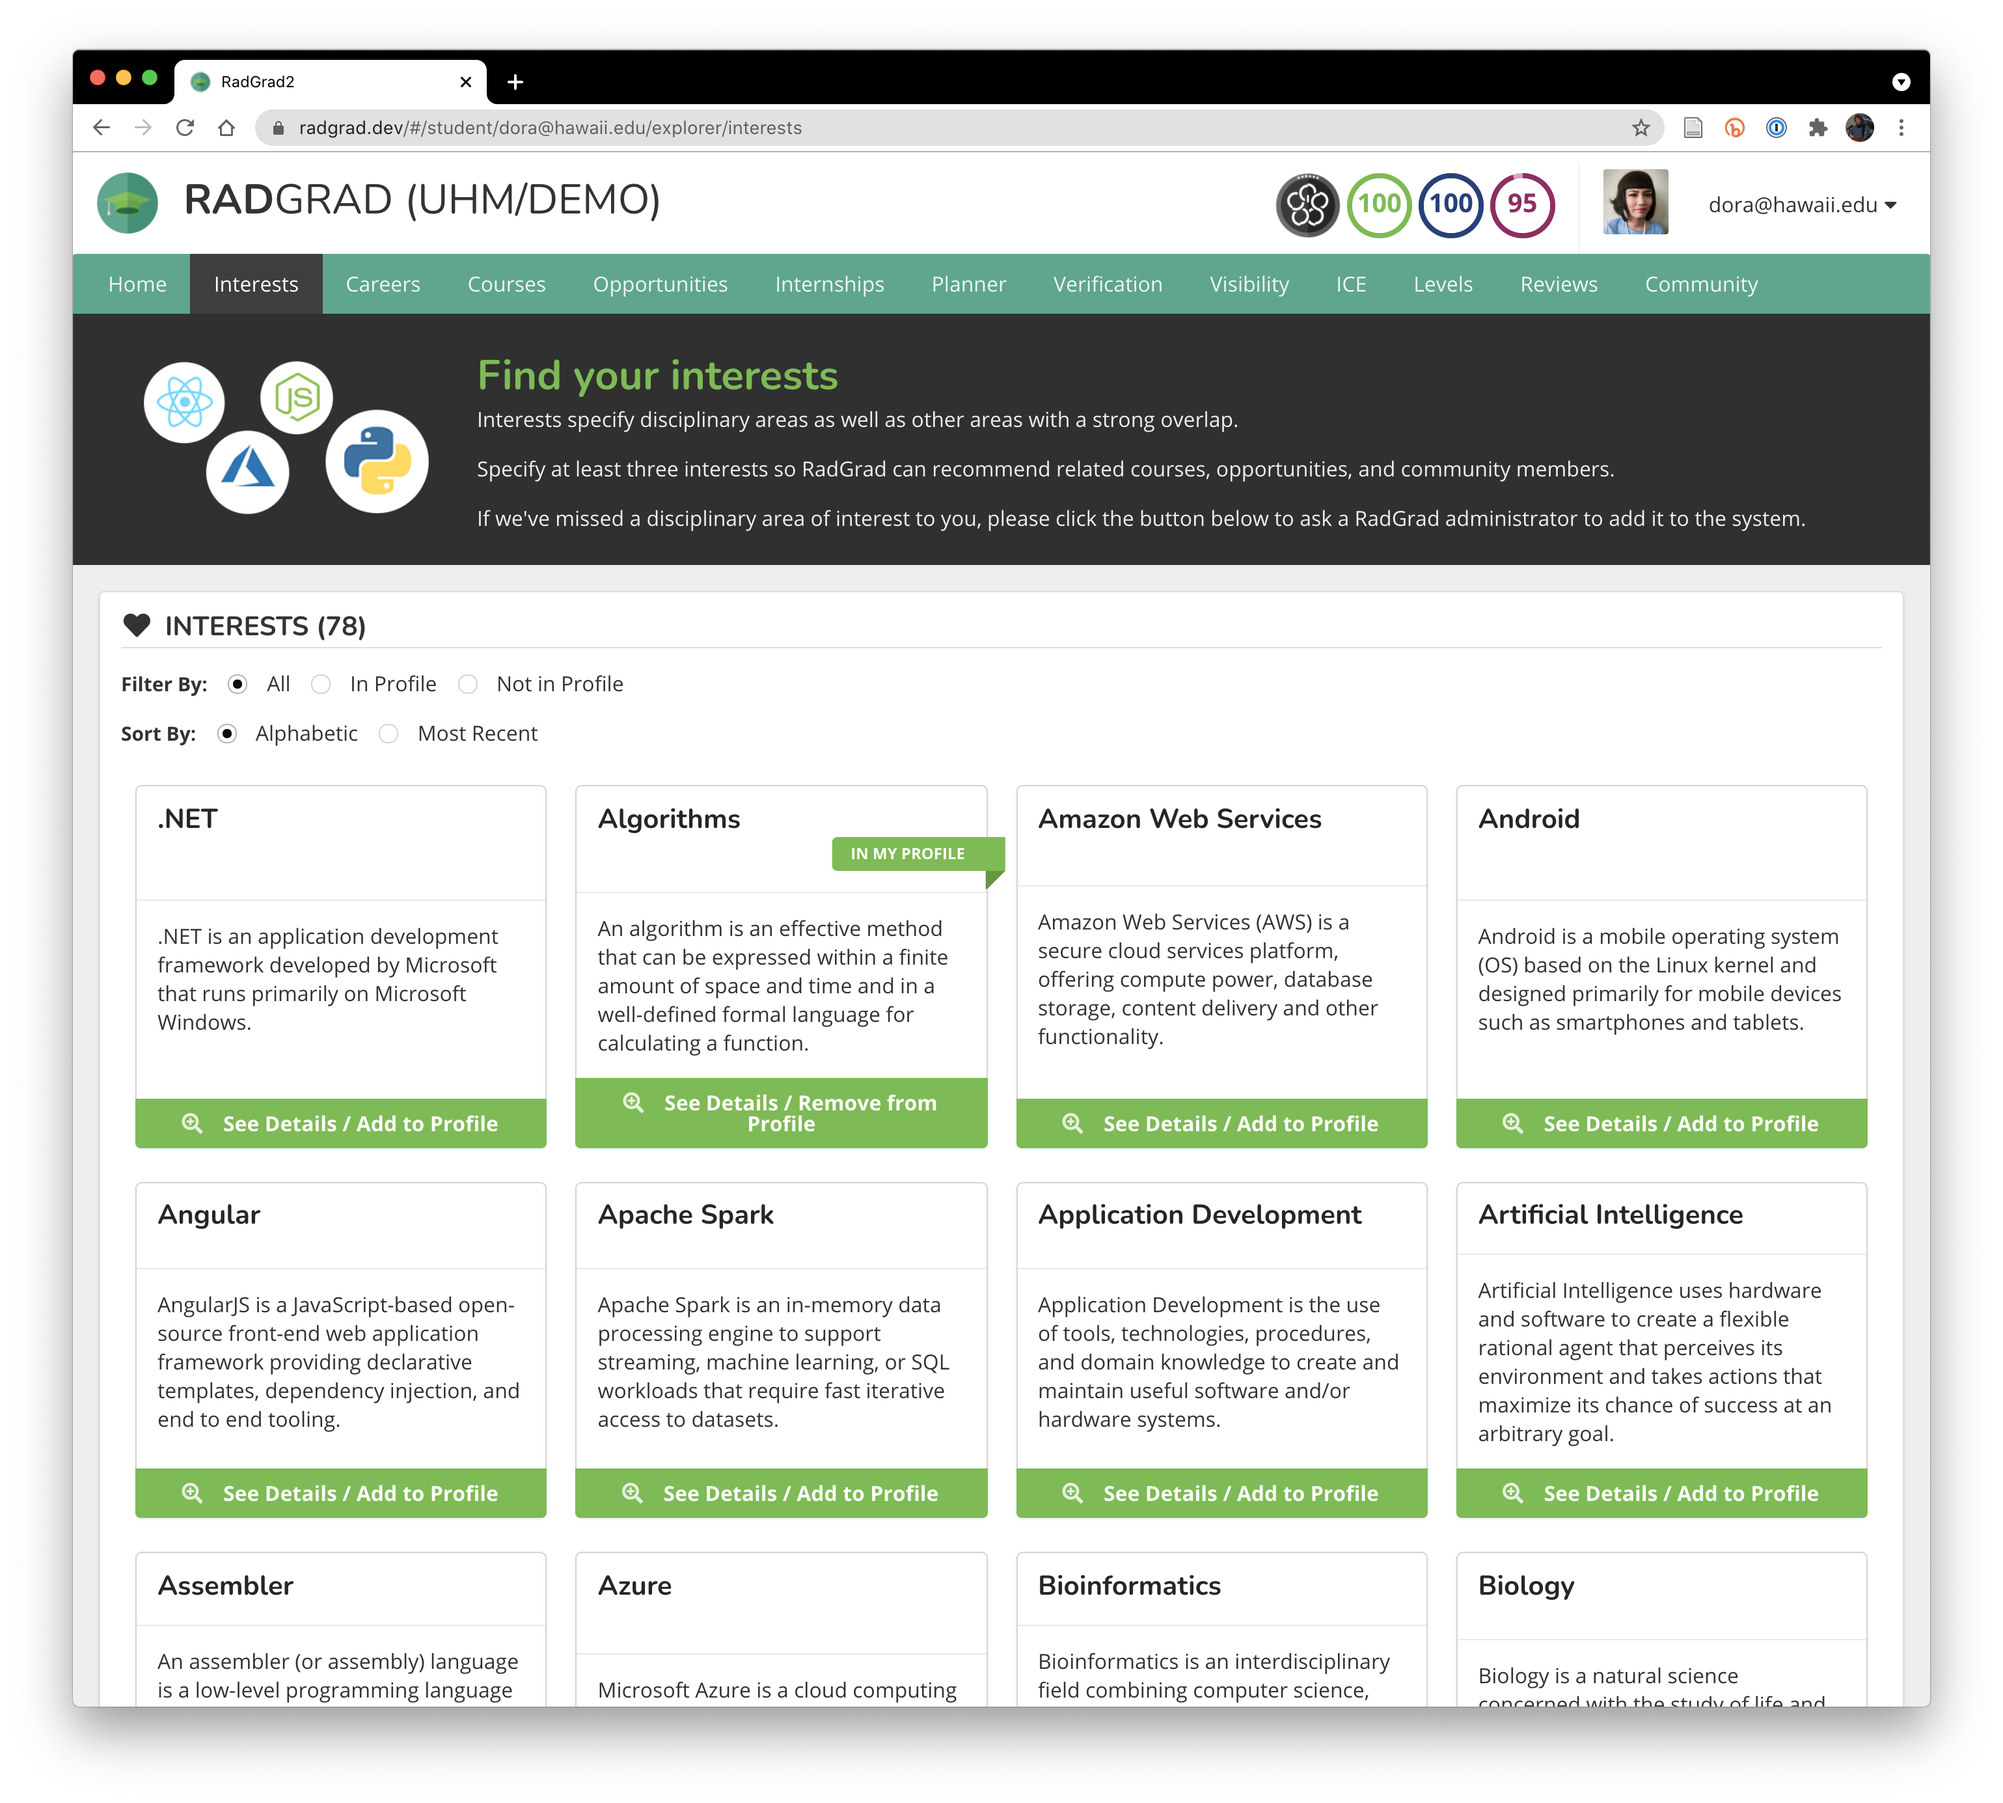
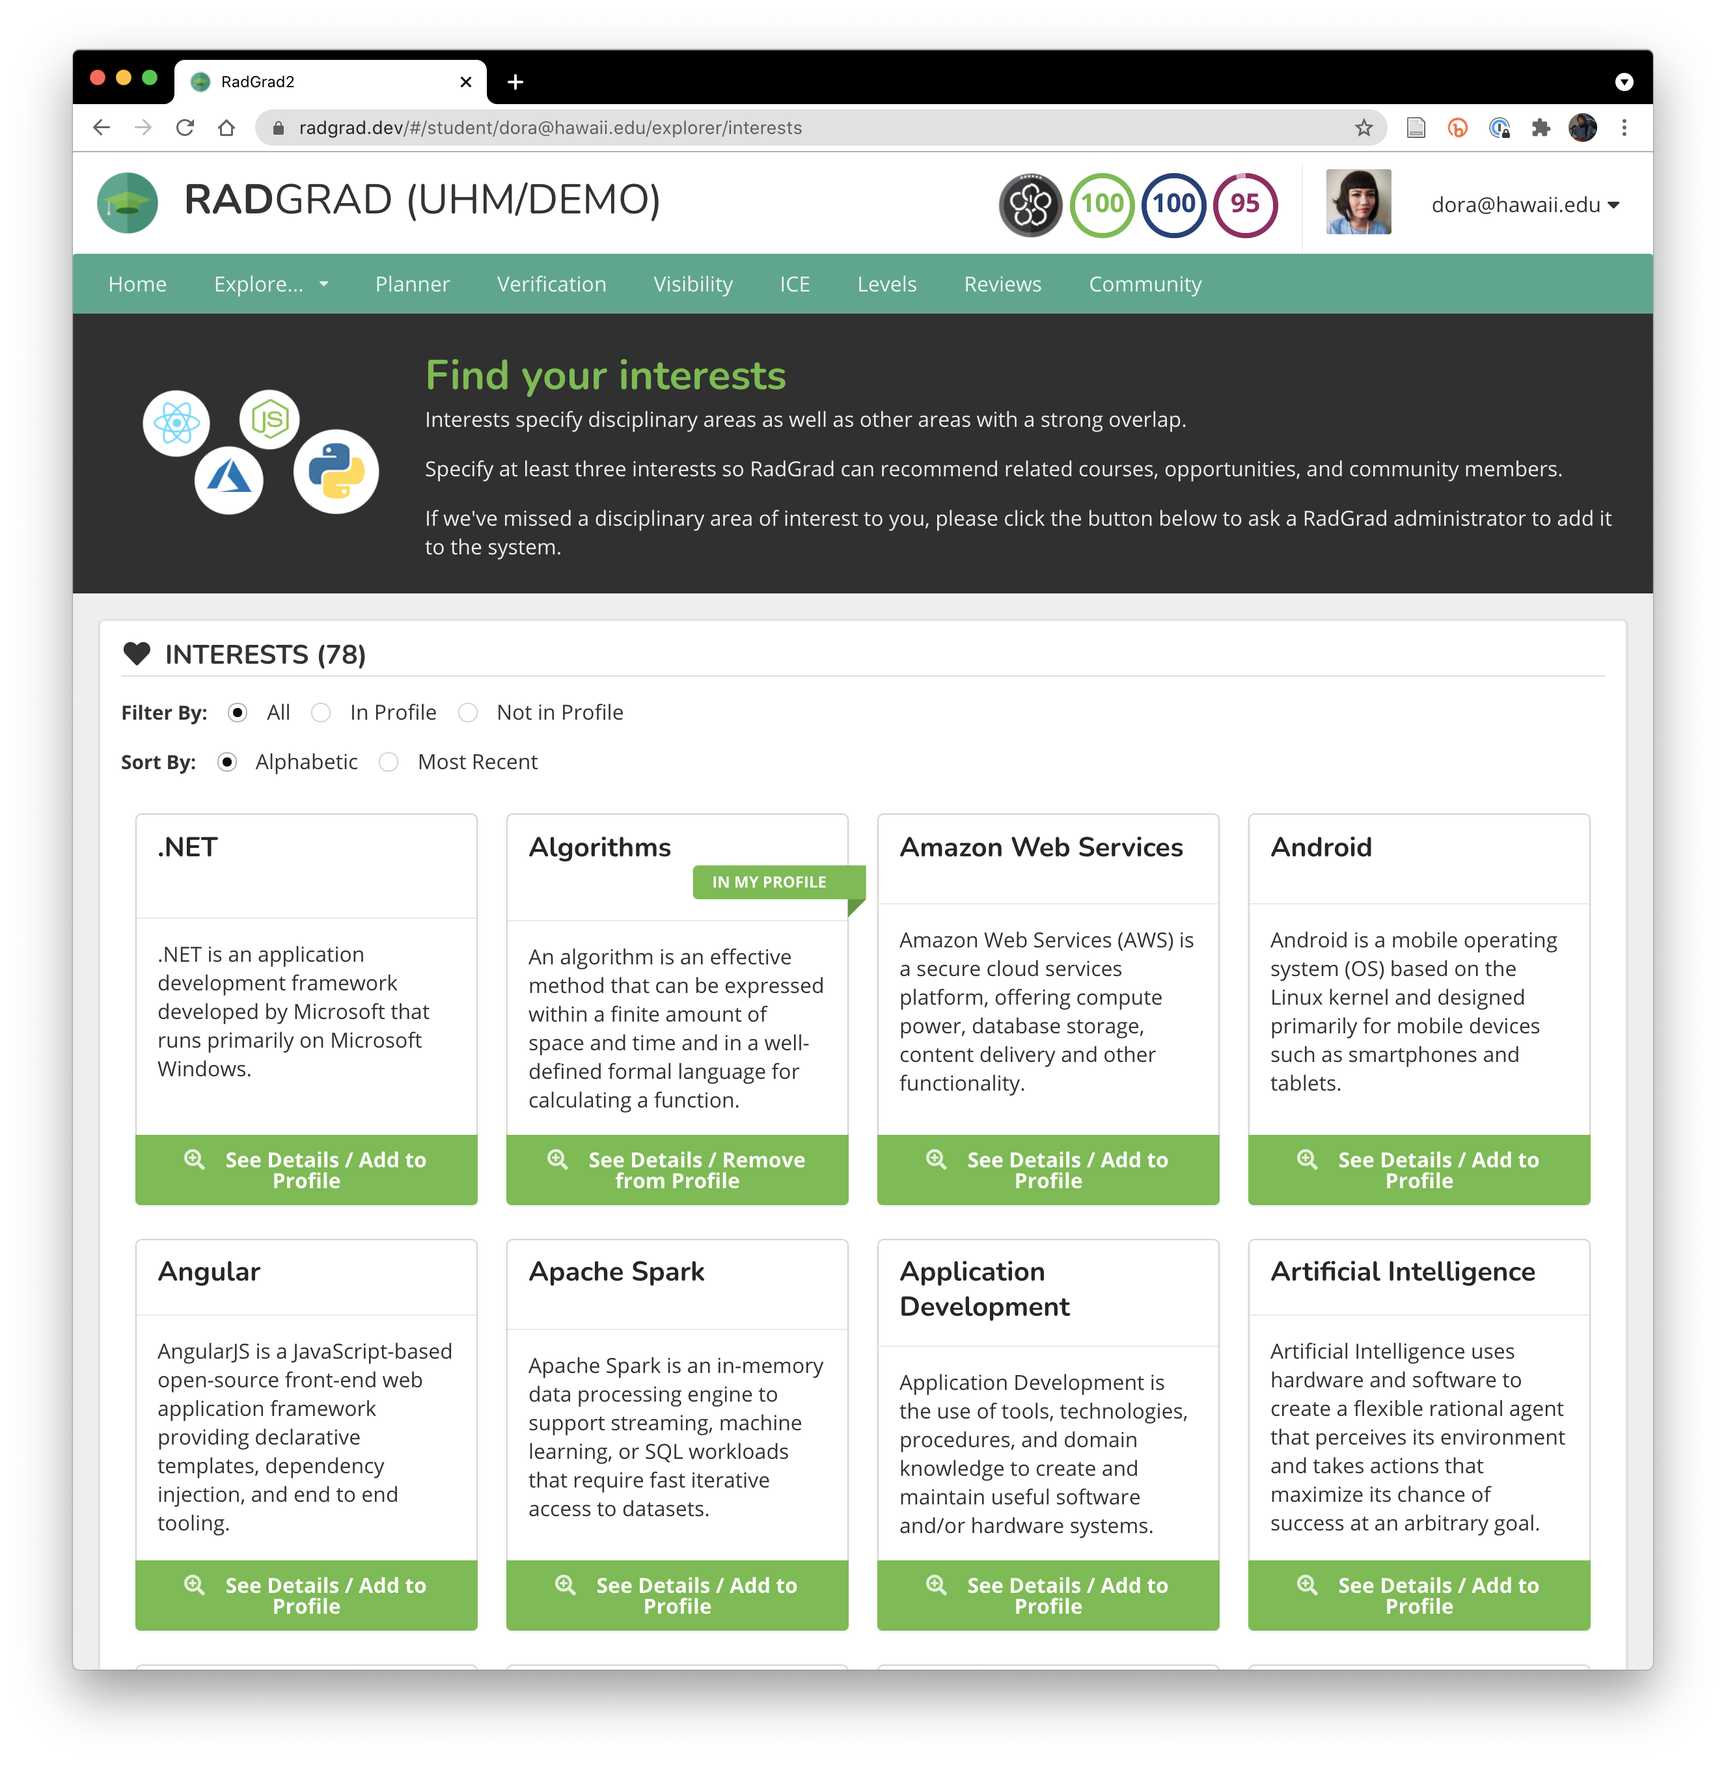
demo progress

Changed region(s): [[0.0309, 0.031, 0.9894, 0.9595]]

diff --git a/sidebars.js b/sidebars.js
@@ -53,7 +53,8 @@ module.exports = {
           'users/demo/overview',
           'users/demo/login',
           'users/demo/home',
-          'users/demo/interests',
+          'users/demo/explorers',
+          'users/demo/degree-plan',
           'users/demo/users',
         ],
       },

diff --git a/docs/users/demo/explorers.md b/docs/users/demo/explorers.md
@@ -1,0 +1,82 @@
+---
+title: Exploring Interests, Career Goals, Courses, and Opportunities
+sidebar_label: Explorers
+---
+
+A primary goal of RadGrad is to provide a faculty-curated and student-augmented knowledge base about the discipline.
+
+For new college students, the RadGrad knowledge base is intended to help them learn about the breadth of possibilities in the discipline, and new, emerging areas of innovation.  This is important because, for example, many college students begin their degree experience with a very narrow view of computer science as being only for "nerds", or only useful if you want to design video games for a living.
+
+For more senior students who have decided to pursue the discipline, the RadGrad knowledge base is intended to help them become more "well rounded" by helping them integrate extracurricular activities as an integral part of their degree program.
+
+The "Explore..." drop-down menu provides access to "Explorers" for Interests, Career Goals, Courses, and Opportunities. (An additional Explorer for internships is currently in development but ready for use yet.)
+
+## Exploring Interests
+
+Clicking on "Explore...", followed by "Interests", takes you to the Explorer for Interests, which will look similar to this:
+
+![](/img/user-guide/demo/interests.png)
+
+This page provides an overview of the 70+ "Interests", or discipline-specific topic areas, for this computer science-oriented instance of RadGrad.
+
+It is important for students to have at least a few Interests added to their profile so that the system can make recommendations and support the development of communities of practice.
+
+As you can see, "Algorithms" is an interest area for Dora. Let's click on the "See Details/Remove from Profile" button to take a look at its "Details" page:
+
+![](/img/user-guide/demo/interests-2.png)
+
+There is quite a bit of information on this page:
+  * A short text defining what an algorithm is.
+  * A short YouTube video describing algorithms.
+  * Career Goals, Courses, and Opportunities related to algorithms. Each of those tiles are clickable and will take you to a page describing them. If the tile is colored green, then that Career Goal, Course, or Opportunity is in this student's profile. Otherwise it is colored grey to indicate it is not.
+  * (Visible) Students. To maintain FERPA-compliance, students must opt-in to sharing information about their Interests within the system. In this case, three students (including Dora) have opted-in.
+  * (Related) Faculty.  Faculty that have listed algorithms as a specialty area are indicated here.
+
+## Exploring Career Goals
+
+While Interests are the "building blocks" of the discipline, "Career Goals" represent professional directions. The Explorer for Career Goals in Computer Science looks like this:
+
+![](/img/user-guide/demo/career-goals.png)
+
+If we choose Game Developer, we see a "Details" page like this:
+
+![](/img/user-guide/demo/career-goals-2.png)
+
+As you can see, students can quickly get a sense for the topic areas (Interests) associated with this Career Goal, which ones match their current Interests, and related Courses and Opportunities.
+
+## Exploring Courses
+
+The Course Explorer provides information on the courses directly related to the discipline at this institution:
+
+![](/img/user-guide/demo/courses.png)
+
+The Details page is similar to the other entities, although the ICS 111 page illustrates the fact that students are encouraged to provide non-anonymous reviews of courses:
+
+![](/img/user-guide/demo/courses-2.png)
+
+Reviews are moderated to ensure that the contents do not contain inappropriate commentary.
+
+## Exploring Opportunities
+
+Finally, the Opportunity Explorer provides information on extracurricular activities related to the discipline, including clubs, community programs, hackathons, meetups, and so forth.
+
+![](/img/user-guide/demo/opportunities.png)
+
+Here is the details page for a student club called "ACM Manoa":
+
+![](/img/user-guide/demo/opportunities-2.png)
+
+You can see that in addition to the related Interests, Career Goals, and Courses, this screenshot also illustrates that RadGrad can indicate how many students plan to participate in this Opportunity in future semesters.
+
+It also indicates the "ICE" points associated with this Opportunity, which we will discuss in a few pages from now.
+
+
+
+
+
+
+
+
+
+
+

diff --git a/docs/users/demo/degree-plan.md b/docs/users/demo/degree-plan.md
@@ -1,0 +1,22 @@
+---
+title: "From profile to practice: the degree planner"
+sidebar_label: Degree Plan
+---
+
+One function of the Explorers presented in the last page was to learn about the discipline, and about the student and faculty community associated with that discipline.
+
+Another function of the Explorers is to enable a student to indicate which of these entities appeal to them by putting them in their profile.
+
+Once that's done, the next step is to organize things into a coherent Degree Plan, or "Degree Experience", which includes a combination of Courses and Opportunities (and, in future, Internships) related to one's chosen Interests and Career Goals.
+
+Here's what the Degree Planner page looks like:
+
+![](/img/user-guide/demo/degree-planner.png)
+
+The basic idea of the Degree Planner is to take the Courses and Opportunities from your profile that are listed in the right side pane, and drop them into specific semesters in the left side pane.
+
+Once you've indicated a specific future semester (or quarter, if RadGrad is configured to display quarters rather than semesters), then the ICE Points associated with that Course or Opportunities will contribute to your "Planned" ICE Point total.
+
+RadGrad requires the ability to query an institutional database for courses a student has completed in the past. That way, the student does not have to enter finished courses into their Degree Plan, and the system can award the ICE Points associated with a completed course automatically.
+
+We've been referencing ICE Points in the past couple of pages, so let's look at that page next.

diff --git a/docs/users/demo/interests.md b/docs/users/demo/interests.md
@@ -6,20 +6,7 @@ Clicking on the "Interests" tab in the nav bar takes you to a page like this:
 
 ![](/img/user-guide/demo/interests.png)
 
-This page provides an overview of the "Interests", or discipline-specific topic areas, for this instance of RadGrad.
 
-It is important for students to have at least a few Interests added to their profile so that the system can make recommendations and support the development of communities of practice.
-
-As you can see, "Algorithms" is an interest area for Dora. Let's click on the "See Details/Remove from Profile" button to take a closer look:
-
-![](/img/user-guide/demo/interests-2.png)
-
-There is quite a bit of information on this page:
-  * A short text defining what an algorithm is.
-  * A short YouTube video describing algorithms.
-  * Career Goals, Courses, and Opportunities related to algorithms. Each of those tiles are clickable and will take you to a page describing them.
-  * (Visible) Students. For FERPA-compliance, students must opt-in to sharing information about their Interests within the system. In this case, three students (including Dora) have opted-in.
-  * (Related) Faculty.  Faculty that have listed algorithms as a specialty area are indicated here.
 
 Just like Career Goals, Courses, and Opportunities, you can click on Users to obtain more information. Let's check this out next.
 

diff --git a/docs/users/demo/home.md b/docs/users/demo/home.md
@@ -19,9 +19,11 @@ And clicking on the "Completed" tab shows other possible activities that are fin
 
 ![](/img/user-guide/demo/home-3.png)
 
-The goal of the Home Page To Do List is to essentially "teach" users how to use RadGrad simply by taking care of To Do list items.
+One goal of the Home Page To Do List is to "teach" new users how to use RadGrad simply by taking care of To Do list items.
 
-Let's now look at some of the other pages in the system available through the navigation bar.
+Another goal is to help users notice new changes to the system. For example, if new career goals or opportunities that are related to their interests appear, then this page can notify them to go look for them.
+
+Let's now look at the various "Explorers" provided by RadGrad.
 
 
 

diff --git a/docs/users/demo/overview.md b/docs/users/demo/overview.md
@@ -25,3 +25,5 @@ The advisor and faculty user definitions loosely reflect actual faculty at the U
 
 However, it is very important to note the the six student definitions in UHM/DEMO are totally hypothetical. They are defined in such a way as to illustrate students at various points in their academic program.
 
+This chapter is best used "interactively": please obtain the password for the UHM/DEMO instance, and then login to the system and explore the system as you read through the accompanying pages. The screenshots are just examples and there are additional features you can discover by interacting with the system.
+
